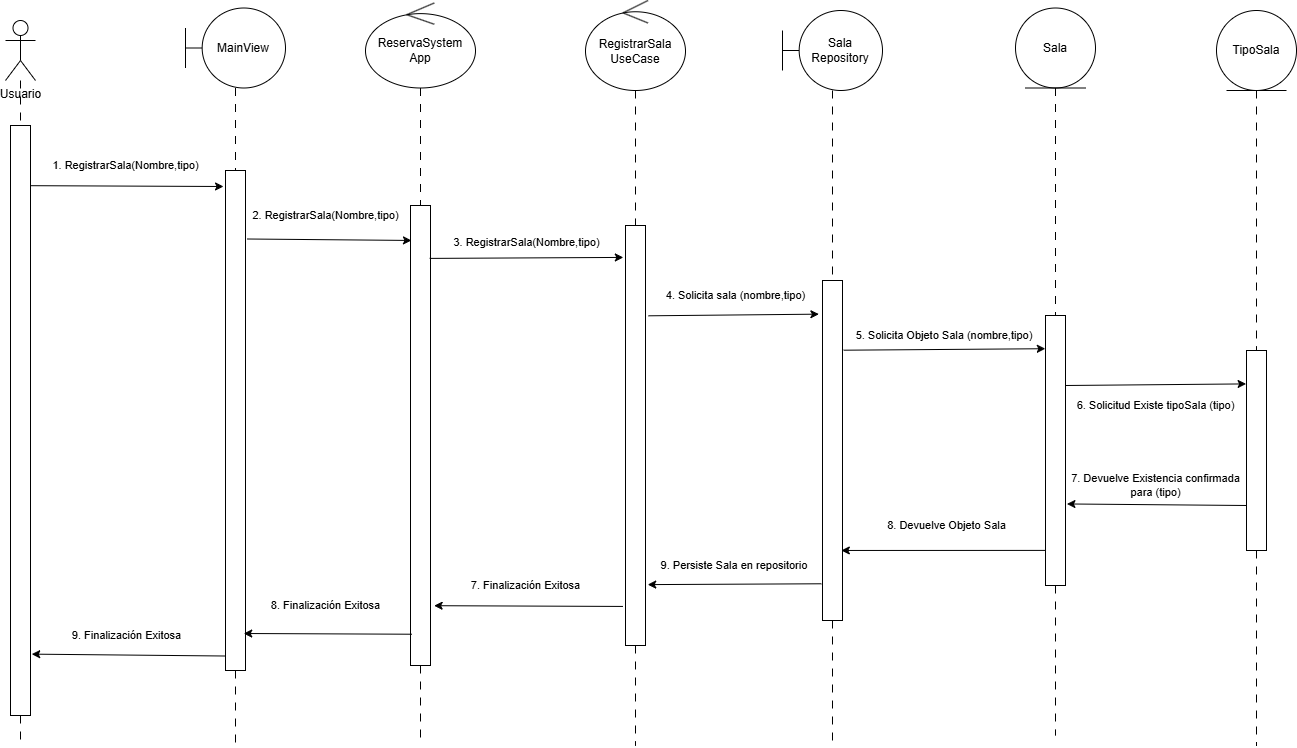
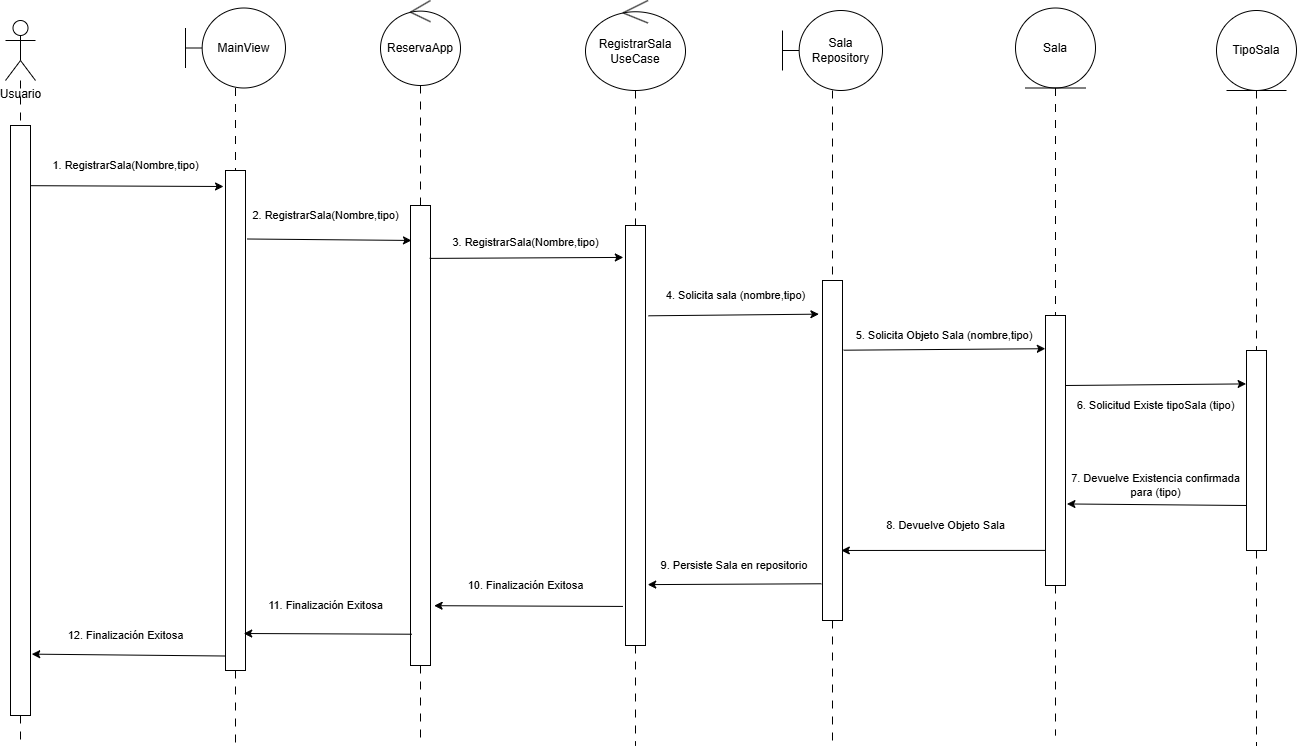
Added documents (Diagrams and ToDo document) and tests for the usecase

diff --git a/src/test/java/reserva/entities/SalaTest.java b/src/test/java/reserva/entities/SalaTest.java
@@ -1,0 +1,33 @@
+package reserva.entities;
+
+import org.junit.jupiter.api.Test;
+
+import static org.junit.jupiter.api.Assertions.*;
+
+class SalaTest {
+
+    @Test
+    void getId() {
+        Sala sala = new Sala(1, "Sala 1", TipoSala.valueOf("AULA"), 20);
+        assertEquals(1, sala.getId());
+    }
+
+    @Test
+    void getNombre() {
+        Sala sala = new Sala(1, "Sala 1", TipoSala.valueOf("AULA"), 20);
+        assertEquals("Sala 1", sala.getNombre());
+    }
+
+    @Test
+    void getTipoSala() {
+        Sala sala = new Sala(1, "Sala 1", TipoSala.valueOf("AULA"), 20);
+        assertEquals(TipoSala.AULA, sala.getTipoSala());
+    }
+
+    @Test
+    void getAforo() {
+        Sala sala = new Sala(1, "Sala 1", TipoSala.valueOf("AULA"), 20);
+        assertEquals(20, sala.getAforo());
+    }
+
+}

diff --git a/src/test/java/reserva/usecases/services/RegistrarSalaUseCaseTest.java b/src/test/java/reserva/usecases/services/RegistrarSalaUseCaseTest.java
@@ -1,0 +1,30 @@
+package reserva.usecases.services;
+
+import org.junit.jupiter.api.Test;
+import reserva.entities.Sala;
+import reserva.entities.TipoSala;
+import reserva.infrastructure.repositories.InMemorySalaRepository;
+import reserva.usecases.ports.SalaRepository;
+
+import static org.junit.jupiter.api.Assertions.assertFalse;
+import static org.junit.jupiter.api.Assertions.assertTrue;
+
+class RegistrarSalaUseCaseTest {
+    @Test
+    void registrarSalaNormal() {
+        SalaRepository salaRepository = new InMemorySalaRepository();
+        Sala sala = new Sala(1, "Sala 1", TipoSala.valueOf("AULA"), 20);
+        boolean nombreUnico = salaRepository.buscarPorNombre(sala.getNombre()) == null;
+        assertTrue(nombreUnico);
+    }
+
+    @Test
+    void registrarSalaNombreNoUnico() {
+        SalaRepository salaRepository = new InMemorySalaRepository();
+        Sala sala = new Sala(1, "Sala 1", TipoSala.valueOf("AULA"), 20);
+        salaRepository.guardar(sala);
+        Sala sala2 = new Sala(2, "Sala 1", TipoSala.valueOf("AULA"), 20);
+        boolean nombreUnico = salaRepository.buscarPorNombre(sala2.getNombre()) == null;
+        assertFalse(nombreUnico);
+    }
+}